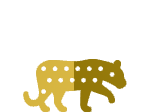
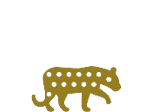
Added new images. Added new User class for computing walking distance based on GPS.

Changed region(s): [[0.1333, 0.5089, 0.8533, 1.0]]

diff --git a/MapScreen.js b/MapScreen.js
@@ -14,17 +14,17 @@ export class MapScreen extends React.Component {
      var numberOfAnimals = customData.animals.length;
      var initialValues = [];
      for (i = 0; i < numberOfAnimals; i++) {
-         initialValues.push(new Animated.Value(200));
+         initialValues.push(new Animated.Value(100));
      }
      this.state = {
        values: initialValues
      }
      this.springValue = new Animated.Value(0.3);
-     this.userValue = new Animated.Value(200);
+     this.userValue = new Animated.Value(100);
    }
 
    spring () {
-     this.springValue.setValue(0.3)
+     this.springValue.setValue(0.8)
      Animated.spring(
        this.springValue,
        {
@@ -41,13 +41,13 @@ export class MapScreen extends React.Component {
      var styles = require('./styles');
      var customData = require('./customData.json');
      var maxDistance = 0;
-     var screenSize = 1940;
+     var screenSize = 1949;
      var isCatchable = []
      var userDistance = parseInt(customData.user.distance);
 
      for (i = 0; i < customData.animals.length; i++) {
          currDistance = parseInt(customData.animals[i].distance);
-         if (Math.abs(currDistance-userDistance) < 10) {
+         if (Math.abs(currDistance-userDistance) < 30) {
              isCatchable.push(true);
          }
          else {
@@ -62,37 +62,58 @@ export class MapScreen extends React.Component {
      }
 
      Animated.parallel(customData.animals.map((animal, i) => {
-           xPos = 200+((screenSize-400)*parseInt(animal.distance)/maxDistance);
+           xPos = ((screenSize-200)*parseInt(animal.distance)/maxDistance);
            return Animated.timing(this.state.values[i], {toValue: xPos, duration: 2000, delay: 500})
              })).start()
 
      this.spring();
 
      // user walk
-     xPos = 200+((screenSize-400)*userDistance/maxDistance);
-     this.springValue.setValue(200)
+     xPos = ((screenSize-200)*userDistance/maxDistance);
+     this.userValue.setValue(100)
         Animated.timing(
              this.userValue, {toValue: xPos, duration: 2000, delay: 2500}
        ).start();
 
+
      let animals = customData.animals.map((animal, i) => {
+     switch(animal.species) {
+         case 'bear':
+             var icon = require('./images/bear.png');
+             break;
+         case 'wolf':
+             var icon = require('./images/wolf.png');
+             break;
+         case 'leopard':
+             var icon = require('./images/leopard.png');
+             break;
+         case 'moose':
+             var icon = require('./images/moose.png');
+             break;
+         case 'fox':
+             var icon = require('./images/fox.png');
+             break;
+         default:
+             var icon = require('./images/user.png');
+     }
+
        if (isCatchable[i]) {
        return (
-           <Animated.View style={{position: 'absolute', left: this.state.values[i], width: 100, height: 200, transform: [{scale: this.springValue}]}} key={i}>
-              <Image source={require('./images/bear.png')} style={styles.animalImage} />
+           <Animated.View style={{position: 'absolute', left: this.state.values[i], width: 150, height: 250, transform: [{scale: this.springValue}]}} key={i}>
+              <Image source={icon} style={styles.animalImage} />
               <TouchableOpacity onPress={() => navigate('Animal', { user: animal.name })}>
-
-                 <Text style={styles.text}>{animal.name}{"\n"}{animal.distance}</Text>
+                 <Text style={[styles.text,{width: 150, height:118}]}>{animal.name}{"\n"}{animal.distance}</Text>
               </TouchableOpacity>
            </Animated.View>
            );
            }
        else {
              return (
-           <Animated.View style={{position: 'absolute', left: this.state.values[i], width: 100, height: 200}} key={i}>
-                 <Image source={require('./images/moose.png')} style={styles.animalImage} />
-                 <Text style={styles.text}>{animal.name}{"\n"}{animal.distance}</Text>
+           <Animated.View style={{position: 'absolute', left: this.state.values[i], width: 150, height: 250}} key={i}>
+                 <Image source={icon} style={styles.animalImage} />
+                 <Text style={[styles.text,{width: 150, height:118}]}>{animal.name}{"\n"}{animal.distance}</Text>
            </Animated.View> );
+
        }
      });
 
@@ -107,10 +128,10 @@ export class MapScreen extends React.Component {
                  alignItems: 'flex-start',
                }}>
          <Image style={{width: screenSize}} source={require('./images/background.png')} />
-         <View style={{height:200, position: 'absolute', left: 0, bottom: 0}}>
-                       <Animated.View style={{position: 'absolute', left: this.userValue, width: 100, height: 200}} key={i}>
-                              <Image source={require('./images/wolf.png')} style={styles.animalImage} />
-                             <Text style={styles.text}>{customData.user.name}{"\n"}{customData.user.distance}</Text>
+         <View style={{height:230, position: 'absolute', left: 0, bottom: 0}}>
+                       <Animated.View style={{position: 'absolute', left: this.userValue, width: 150, height: 250}} key={i}>
+                              <Image source={require('./images/user.png')} style={styles.animalImage} />
+                             <Text style={[styles.text,{width: 150, height:118}]}>{customData.user.name}{"\n"}{customData.user.distance}</Text>
                        </Animated.View>
                        {animals}
          </View>

diff --git a/User.js b/User.js
@@ -1,0 +1,67 @@
+import React, { Component } from 'react'
+import {
+  AppRegistry,
+  StyleSheet,
+  View,
+  Text,
+  MapView,
+  Dimensions,
+  StatusBarIOS
+} from 'react-native'
+
+import haversine from 'haversine'
+import pick from 'lodash/pick'
+
+const { width, height } = Dimensions.get('window')
+
+// Source:
+// https://medium.com/@lennyboyatzis/run-rabbit-run-path-tracking-with-react-native-and-the-geolocation-api-299227a9e241
+
+export class User {
+
+  constructor(props) {
+    super(props)
+    var routeCoordinates = [];
+    var distanceTravelled: = 0;
+    var prevLatLng = {};
+  }
+
+
+  componentDidMount() {
+    navigator.geolocation.getCurrentPosition(
+      (position) => {},
+      (error) => alert(error.message),
+      {enableHighAccuracy: true, timeout: 20000, maximumAge: 1000}
+    )
+    this.watchID = navigator.geolocation.watchPosition((position) => {
+      const { routeCoordinates, distanceTravelled } = this.state
+      const newLatLngs = {latitude: position.coords.latitude, longitude: position.coords.longitude }
+      const positionLatLngs = pick(position.coords, ['latitude', 'longitude'])
+      this.setState({
+        routeCoordinates: routeCoordinates.concat(positionLatLngs),
+        distanceTravelled: distanceTravelled + this.calcDistance(newLatLngs),
+        prevLatLng: newLatLngs
+      })
+    });
+  }
+
+  componentWillUnmount() {
+    navigator.geolocation.clearWatch(this.watchID);
+  }
+
+  calcDistance(newLatLng) {
+    const { prevLatLng } = this.state
+    return (haversine(prevLatLng, newLatLng) || 0)
+  }
+
+  render() {
+    return (
+      <View>
+            <Text>DISTANCE</Text>
+            <Text>{parseFloat(this.state.distanceTravelled).toFixed(2)} km</Text>
+      </View>
+    )
+  }
+}
+
+}

diff --git a/RankingScreen.js b/RankingScreen.js
@@ -50,10 +50,35 @@ export class RankingScreen extends React.Component {
 
     var customData = require('./customData.json');
     let animals = customData.animals.map((animal, i) => {
+
+
+         switch(animal.species) {
+             case 'bear':
+                 var icon = require('./images/bear.png');
+                 break;
+             case 'wolf':
+                 var icon = require('./images/wolf.png');
+                 break;
+             case 'leopard':
+                 var icon = require('./images/leopard.png');
+                 break;
+             case 'moose':
+                 var icon = require('./images/moose.png');
+                 break;
+             case 'fox':
+                 var icon = require('./images/fox.png');
+                 break;
+             default:
+                 var icon = require('./images/user.png');
+         }
+
       return (
       <View key={i}>
+      <View style={{flexDirection: 'row'}} key={i+10000}>
+        <Image source={icon} style={{width: 32, height:32, marginRight: 20}} />
         <Text style={styles.ranking_text}>{animal.name}</Text>
-        <Animated.View style={[styles.bar, {width: values[i]}]} />
+      </View>
+        <Animated.View style={[styles.bar, {marginBottom: 20, width: values[i]}]} />
       </View> ); }
     );
 

diff --git a/styles.js b/styles.js
@@ -40,7 +40,9 @@ var styles = React.StyleSheet.create({
   animalImage: {
        alignItems: 'center',
        flex: 1,
-       resizeMode: 'stretch'
+     width: 150,
+     height: 112,
+     resizeMode: 'contain'
     },
   text: {
      textAlign: 'center',
